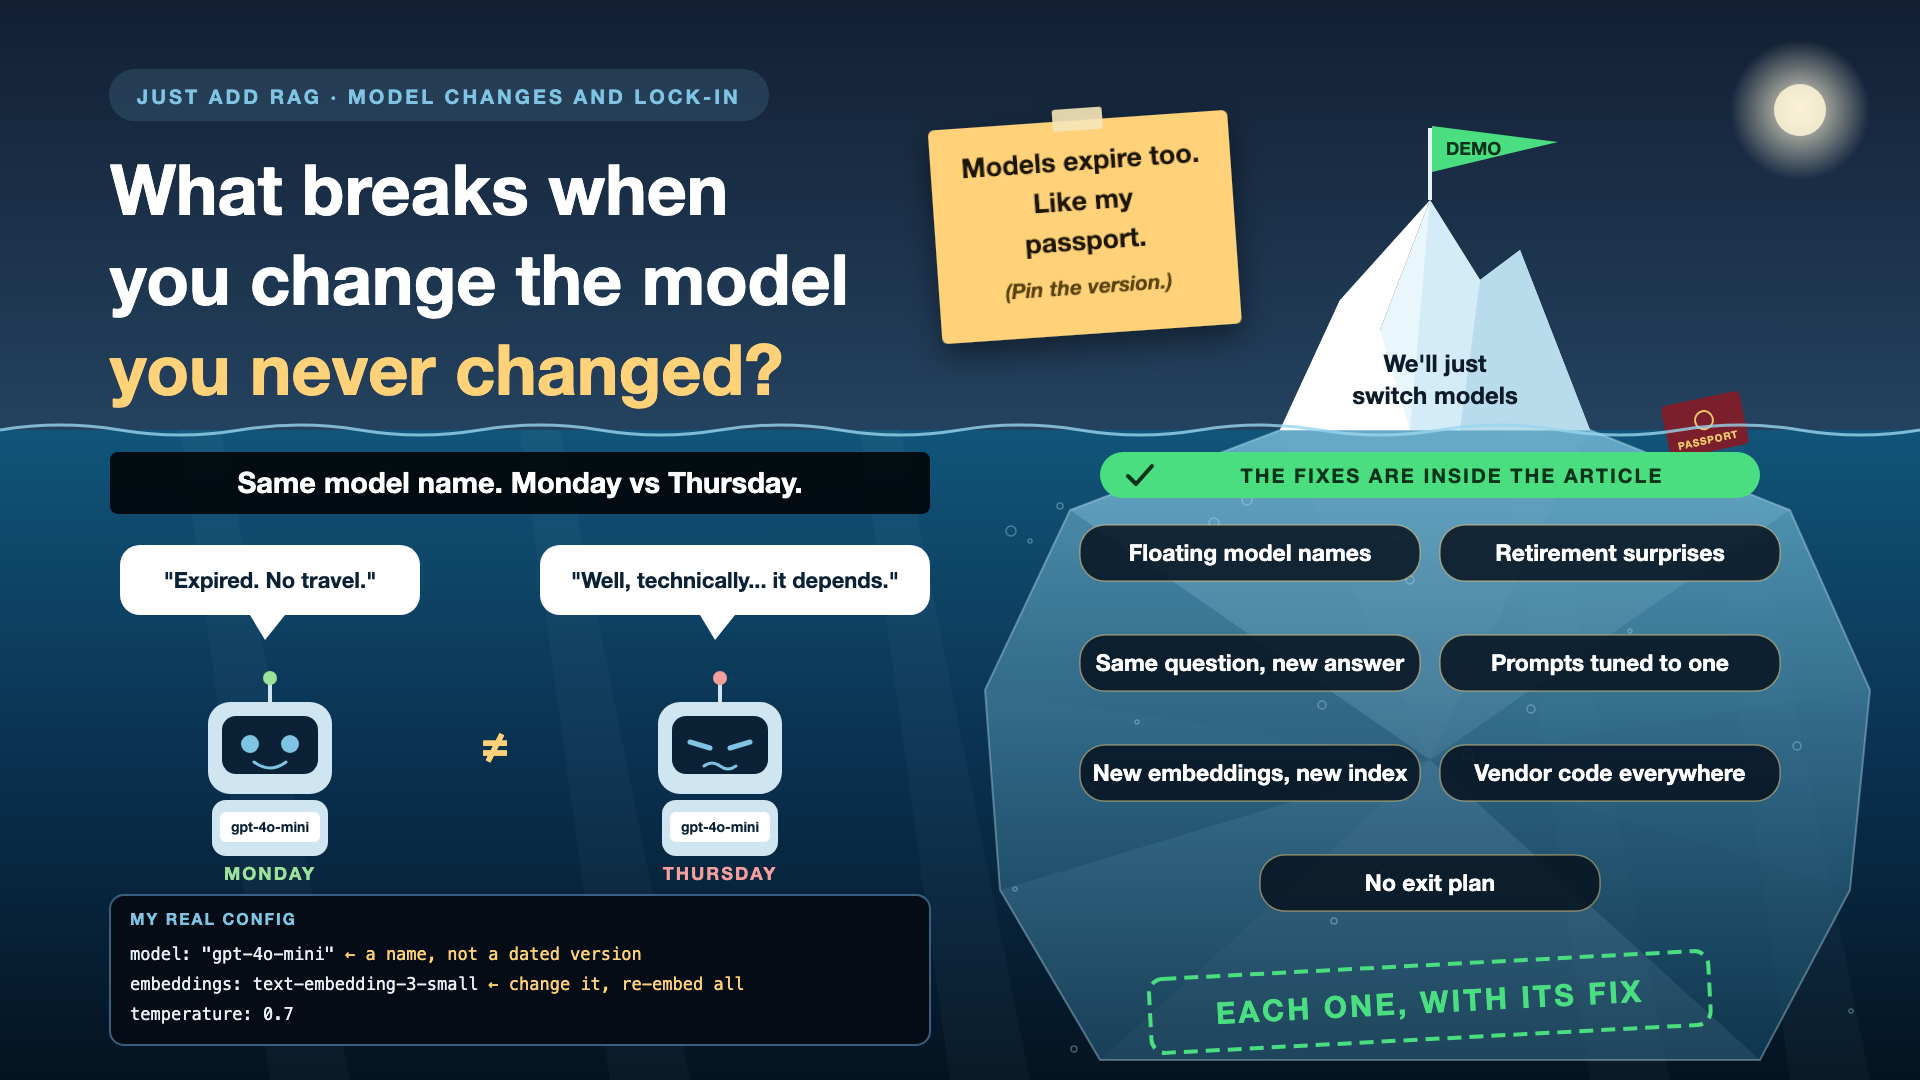
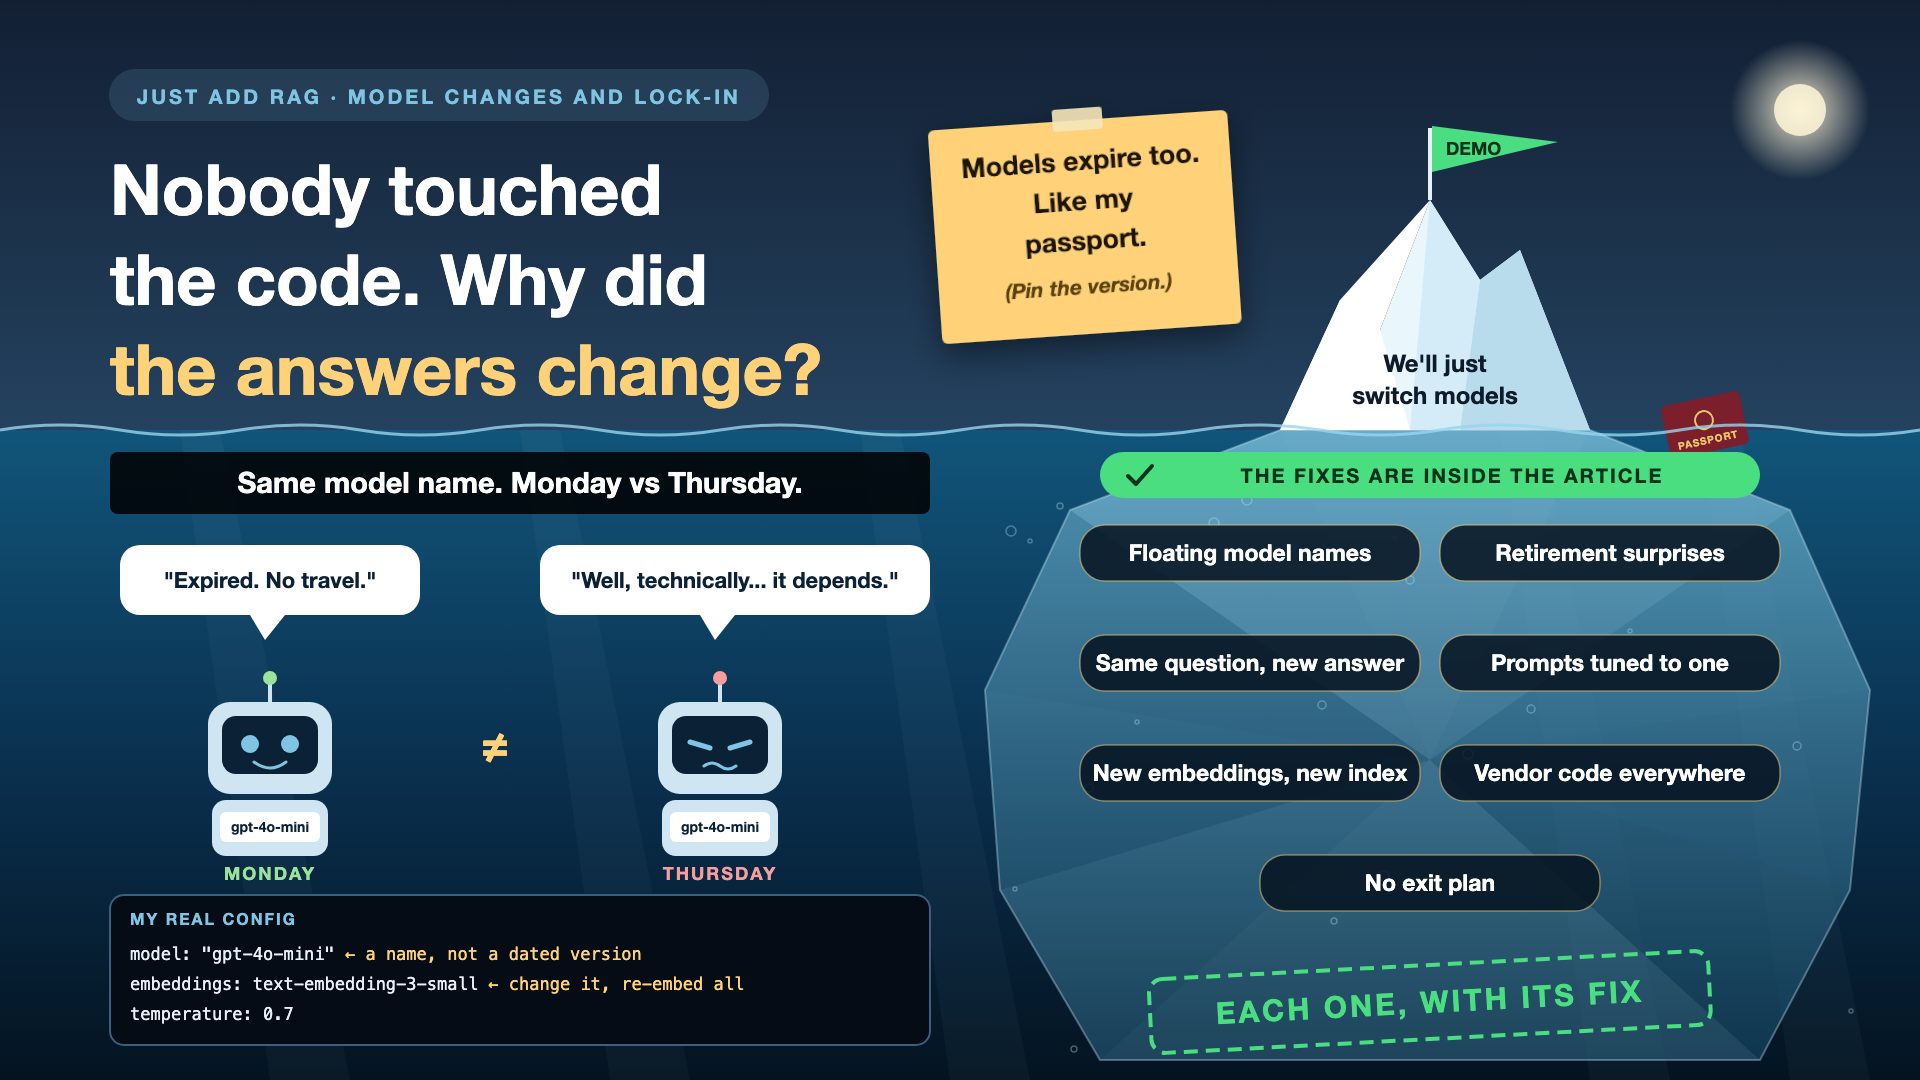
JustAddRAG 14: retitle to 'Nobody touched the code. Why did the answers change?'

Changed region(s): [[0.0625, 0.1528, 0.4375, 0.3972]]

diff --git a/01-just-add-rag/README.md b/01-just-add-rag/README.md
@@ -19,7 +19,7 @@ A write-up is marked **Published** only once it is live on LinkedIn.
 | 11 | [It's fast in the demo, so why are users clicking twice?](10-performance.md) | Performance, availability, backups | **Published** 13 October 2026 | [Read](https://www.linkedin.com/pulse/11-its-fast-demo-so-why-users-clicking-twice-performance-arpit-jain-zvcsf) |
 | 12 | [Where did your user's passport just travel to?](11-privacy.md) | Privacy, residency, compliance, right to delete | **Published** 13 October 2026 | [Read](https://www.linkedin.com/pulse/12-where-did-your-users-passport-just-travel-privacy-compliance-jain-hcy7f) |
 | 13 | [When your AI gives a wrong answer, can you tell why?](12-observability.md) | Observability | **Published** 14 October 2026 | [Read](https://www.linkedin.com/pulse/13-when-your-ai-gives-wrong-answer-can-you-tell-why-arpit-jain-m4kff) |
-| 14 | [What breaks when you change the model you never changed?](13-model-changes.md) | Model updates, consistency, vendor lock-in | Draft for review | |
+| 14 | [Nobody touched the code. Why did the answers change?](13-model-changes.md) | Model updates, consistency, vendor lock-in | Draft for review | |
 | 15 | [The demo works, so why isn't it 4 weeks from production?](14-estimates.md) | Estimates, expert time | Draft for review | |
 | 16 | [You built it. Why isn't anyone using it?](15-adoption.md) | Success metrics, ROI, adoption | Draft for review | |
 | 17 | [So, should you really "just add RAG"?](16-finale-checklist.md) | Finale: the checklist | Draft for review | |

diff --git a/01-just-add-rag/12-observability.md b/01-just-add-rag/12-observability.md
@@ -94,7 +94,7 @@ Take one real wrong answer. Give the team five minutes and the logs, nothing els
 
 You can't fix what you can't replay.
 
-Next write-up (14): **What breaks when you change the model you never changed?** (Model changes)
+Next write-up (14): **Nobody touched the code. Why did the answers change?** (Model changes)
 
 Follow me for the next one. And tell me: the last time your AI was wrong, how long did it take to find out why?
 

diff --git a/01-just-add-rag/13-model-changes.md b/01-just-add-rag/13-model-changes.md
@@ -1,4 +1,4 @@
-# 14. What Breaks When You Change the Model You Never Changed? | Model Changes and Lock-in
+# 14. Nobody Touched the Code. Why Did the Answers Change? | Model Changes and Lock-in
 
 ![Cover](images/13-model-changes-cover.png)
 
